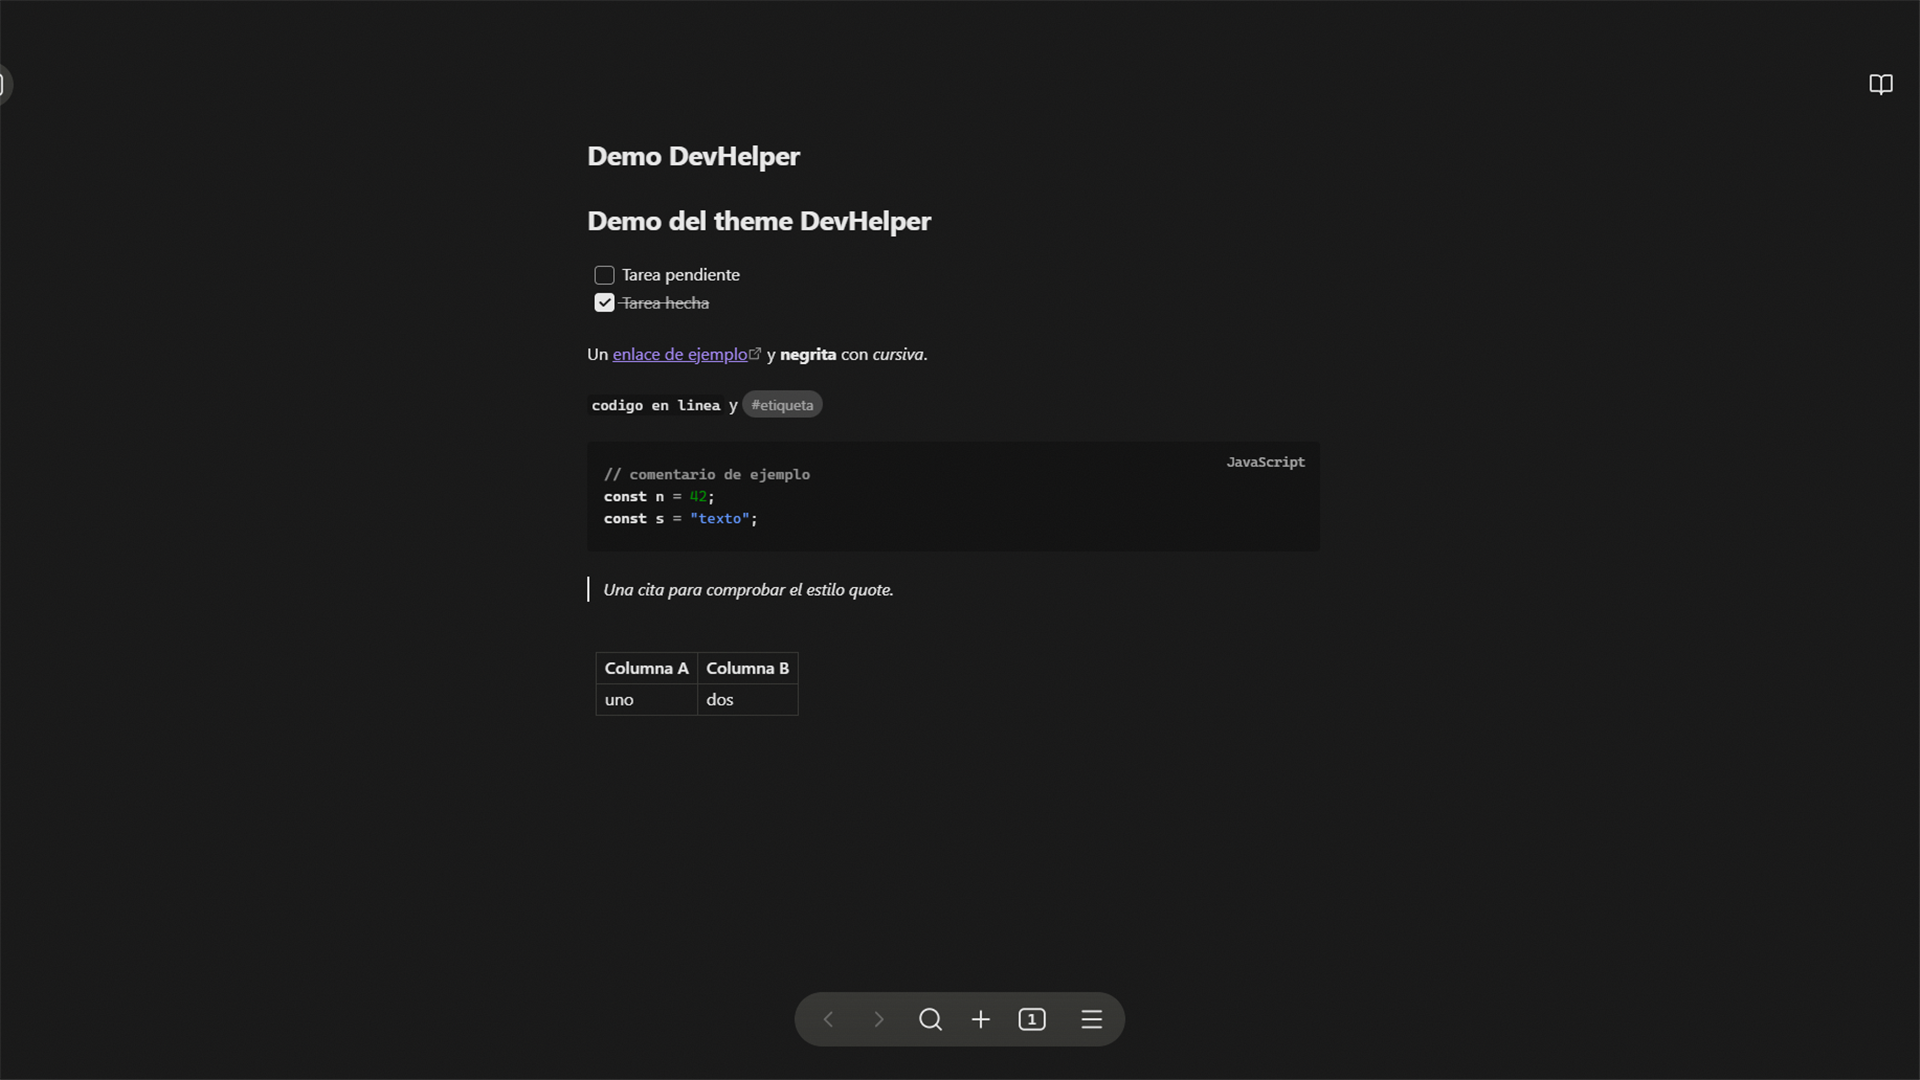
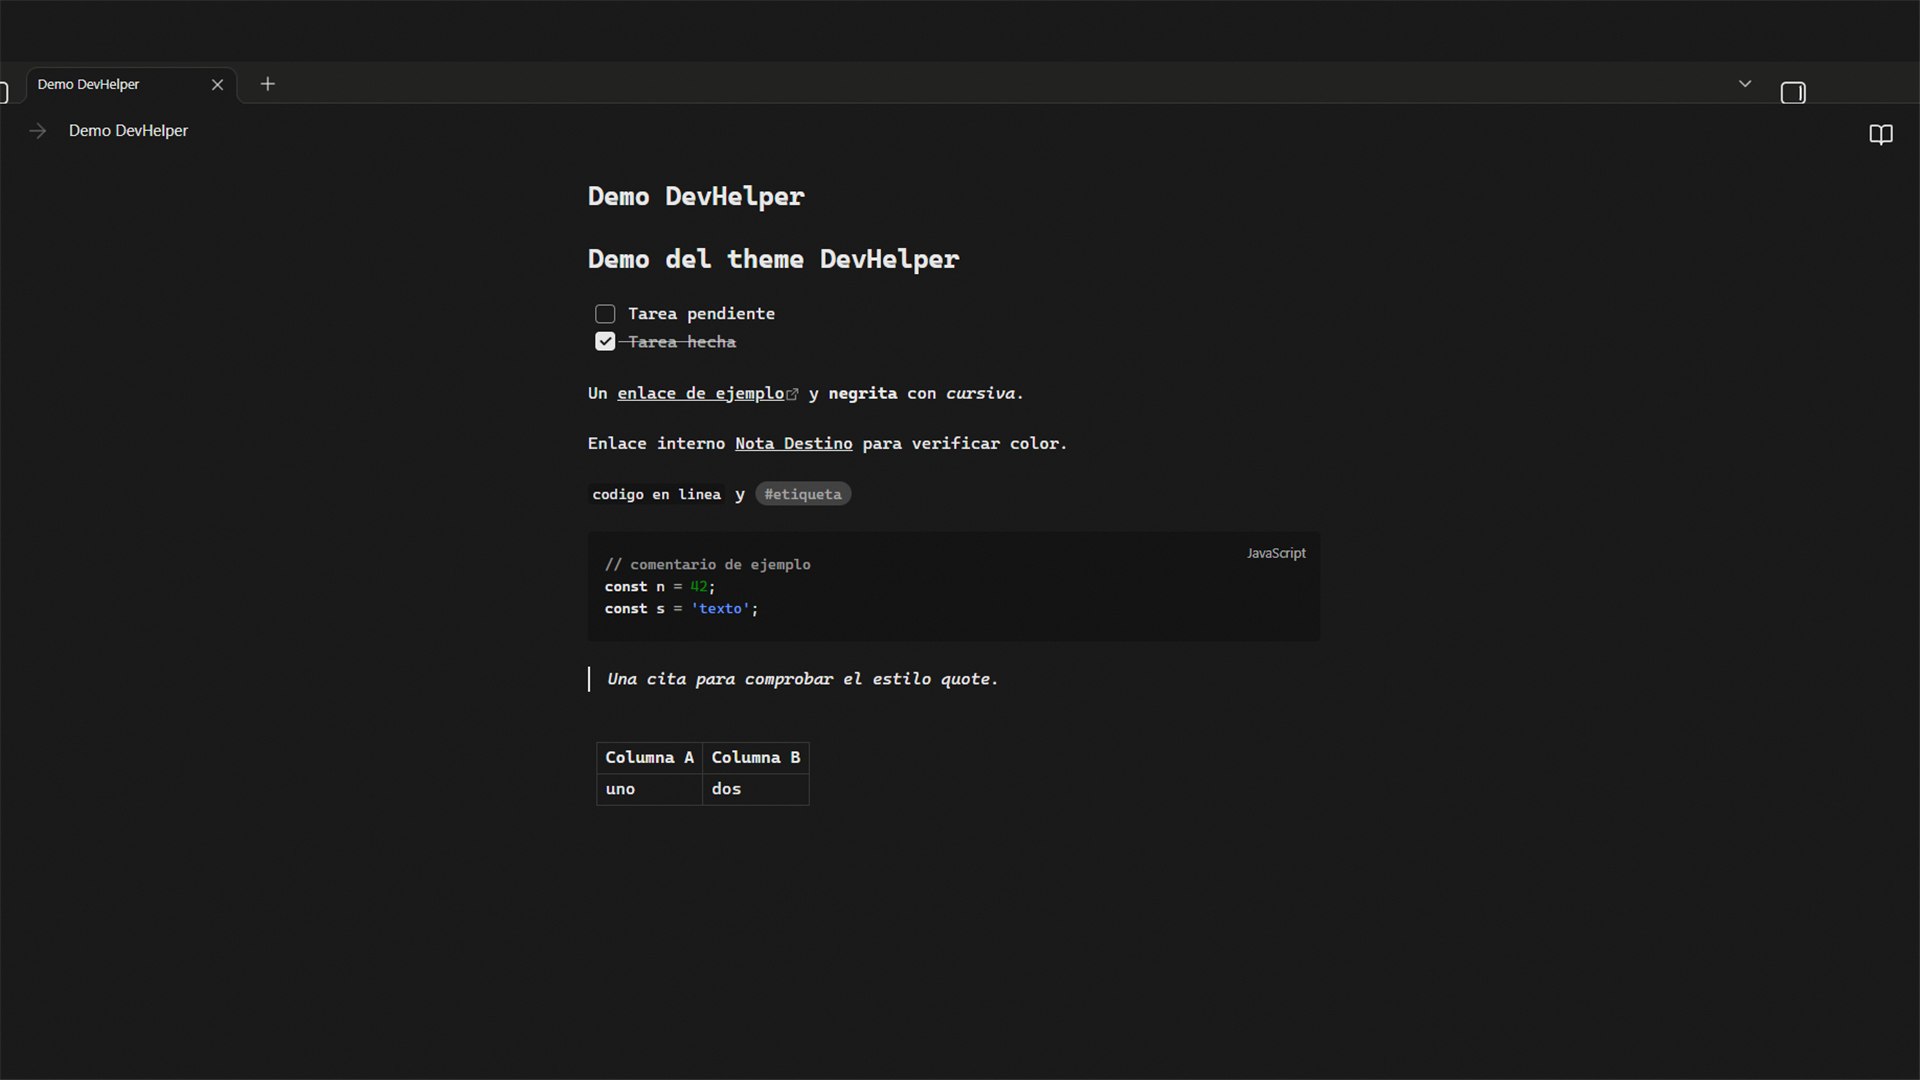
fix: forzar color monocromo en enlaces y endurecer el chequeo de URLs

diff --git a/theme/theme.css b/theme/theme.css
@@ -11,6 +11,11 @@
   --background-modifier-border: #363633;
   --interactive-accent: #e8e8e8;
   --text-on-accent: #171717;
+  --text-accent: var(--text-normal);
+  --link-color: var(--text-normal);
+  --link-color-hover: var(--text-normal);
+  --link-external-color: var(--text-normal);
+  --link-unresolved-color: var(--text-muted);
   --color-green: oklch(55% 0.22 145);
   --color-blue: oklch(70% 0.2 265);
   --color-orange: oklch(88% 0.18 85);
@@ -20,12 +25,19 @@
   --radius-xl: 1rem;
 }
 
-.theme-dark a {
+.theme-dark a,
+.theme-dark .internal-link,
+.theme-dark .external-link,
+.theme-dark .markdown-rendered a {
   color: var(--text-normal);
   font-weight: 500;
   text-decoration: underline;
   text-decoration-color: var(--text-muted);
   text-underline-offset: 2px;
+}
+
+.theme-dark .internal-link.is-unresolved {
+  color: var(--text-muted);
 }
 
 .theme-dark ::selection {
@@ -358,7 +370,7 @@ body.theme-dark.is-mobile .mobile-toolbar {
   min-height: 48px;
 }
 
-body.is-phone .workspace-leaf-content {
+body.theme-dark.is-phone .workspace-leaf-content {
   padding-bottom: env(safe-area-inset-bottom);
 }
 
